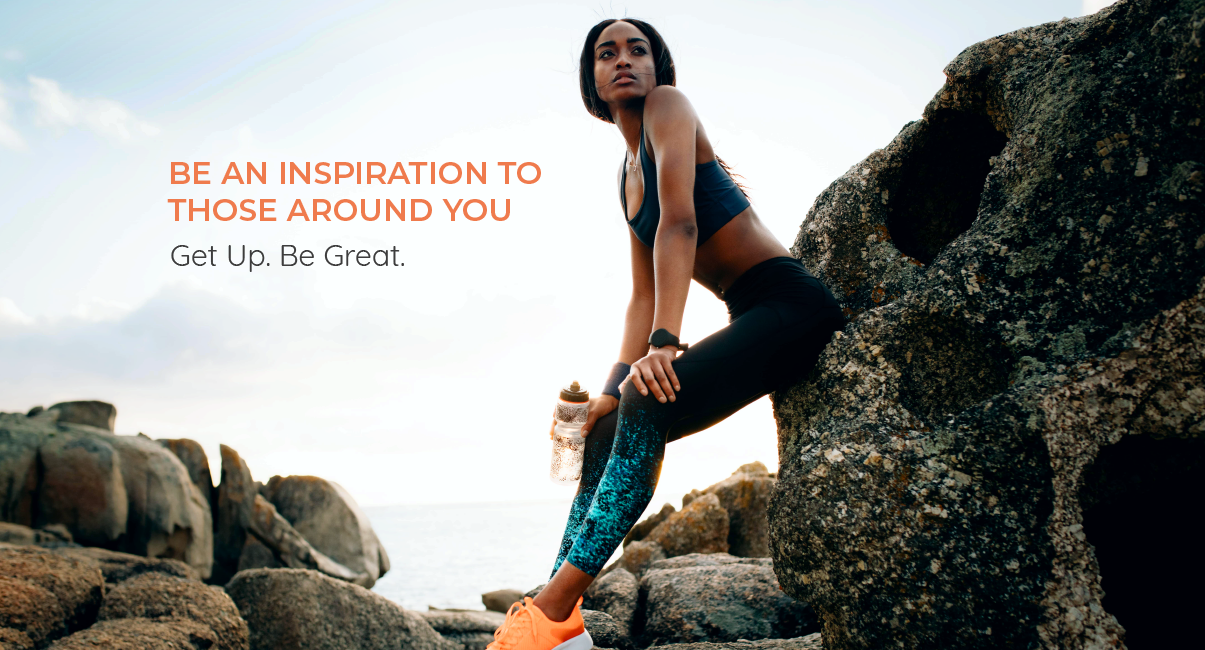
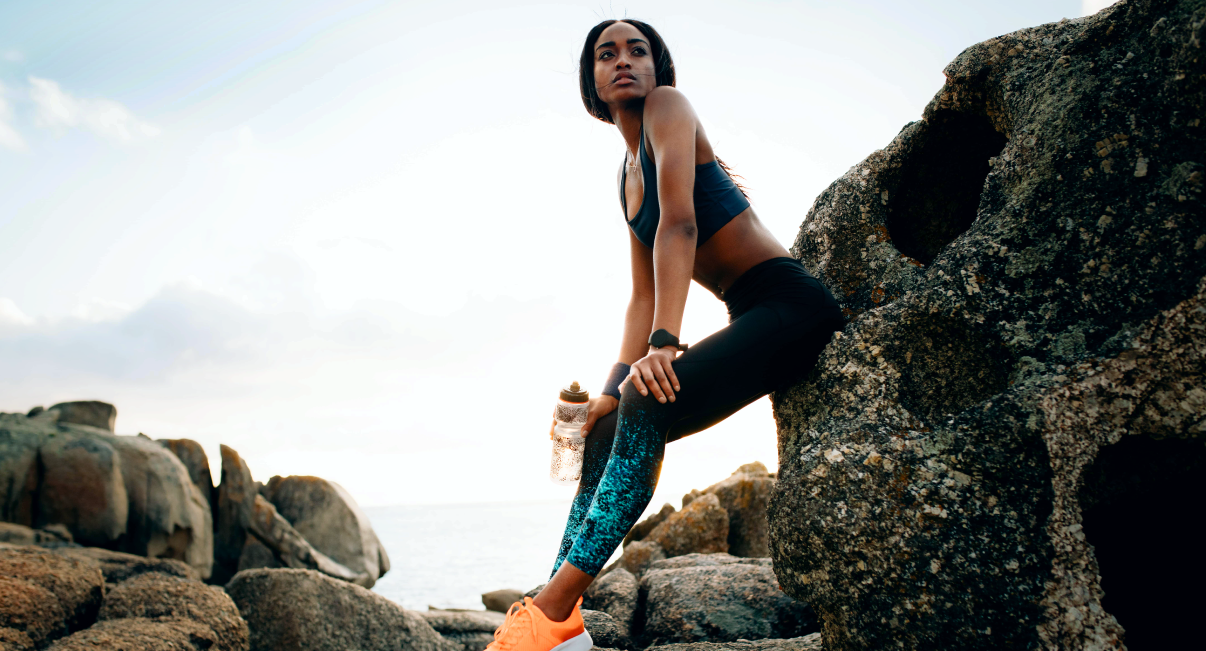
10/31 2:43

diff --git a/unit_6/css/style.css b/unit_6/css/style.css
@@ -1,4 +1,4 @@
-@import url('https://fonts.googleapis.com/css?family=Montserrat:400,500,500i,600,700,800,900|Quicksand:300,400,500,700');
+@import url('https://fonts.googleapis.com/css?family=Montserrat:400,500,500i,600,700,800,900|Quicksand:300,400,500,700|Permanent+Marker');
 
 
 * { margin:0; padding:0; box-sizing:border-box; }
@@ -36,10 +36,51 @@ nav a {
 
 /* -------------End Navigation-------------- */
 
+#intro {
+    background: url(../images/jogger-2.png);
+    background-size: cover;
+    background-repeat: no-repeat;
+    height: 90vh;
+}
+
+h1 {
+  font-family: Montserrat, Helvetica, arial, sans-serif;
+  font-weight: 600;
+  font-size: 2em;
+  color: #ef7b4d;
+}
+
+.tag {
+  font-family: Quicksand, sans-serif;
+  font-weight: 300;
+  font-size: 2em;
+  color: #3d3d3d;
+  margin-bottom: 5em;
+}
+
+
+.cta {
+	display:inline-block;
+     padding: 15px;
+     background-color: #5cc2a1;
+     color: white;
+     text-decoration: none;
+     margin-top: .5em;
+
+}
+
+.herotext {
+    margin: 12% 0% 0% 15%;
+}
+
+
+
 h2 {
-    font-family: Montserrat, Helvetica, arial, sans-serif;
+    font-family: Permanent Marker, cursive, Montserrat, Helvetica, arial, sans-serif;
     font-weight: 400;
     margin-bottom: .8em;
+    font-size: 2em;
+    color: #424242;
 }
 
 section {
@@ -97,27 +138,15 @@ input[type=submit]:hover {
 
 /* -------------End Footer-------------- */
 
-#intro {
-    background: url(../images/jogger-2.png);
-    background-size: cover;
-    background-repeat: no-repeat;
-    height: 90vh;
-}
-.cta {
-	display:inline-block;
-     padding: 15px;
-     background-color: #5cc2a1;
-     color: white;
-     text-decoration:none;
 
-}
 
 /* -----------------Sandwich--------------- */
 #sandwich {
-    
+    width: 80%;
     margin-left: auto;
     margin-right: auto;
     padding: 4em;
+    /*background-color: #f7f7f7;*/
 
 }
 
@@ -143,13 +172,14 @@ input[type=submit]:hover {
   padding-right: 2%;
   display: inline-block;
 
+
 }
 
 #icon {
   float:left;
   margin-right: 5%;
   margin-top: -1em;
-}
+  }
 
 
 /* ------End Features----- */
@@ -158,16 +188,58 @@ input[type=submit]:hover {
  /* background: #222;
   color: #fff;*/
   overflow: auto;
+  
 
 }
 
 
 .box {
   
-  float:left;
-  width: 49%;
+  float: right;
+  width: 28%;
   padding-left: 3em;
   
+}
+
+.box1 {
+  position: relative;
+  float:left;
+  width: 70%;
+  
+  
+}
+
+.water {
+  outline: 1px solid #bababa;
+  width: 90%;
+  margin-left: 4em;
+  display: block;
+  height: auto;
+
+}
+
+.overlay {
+  position: absolute;
+  top: 0;
+  bottom: 0;
+  left: 0;
+  right: 0;
+  
+  width: 90%;
+  opacity: 0;
+  transition: .5s ease;
+  background-color: #5cc2a1;
+  margin-left: 4em;
+}
+
+.box1:hover .overlay {
+  opacity: .7;
+}
+
+
+ul { line-height: 2.42em;
+     
+     margin-top: 3em;
 }
 
 .clearfix::after{

diff --git a/unit_6/index.html b/unit_6/index.html
@@ -16,9 +16,11 @@
 		</nav>
 	</header>
 	<section id="intro">
-		<!--<h1>BE AN INSPIRATION TO THOSE AROUND YOU</h1>
-		<p> Get Up. Be Great. </p> -->
+		<div class="herotext">
+		<h1>BE AN INSPIRATION TO<br>THOSE AROUND YOU</h1>
+		<p> <span class="tag">Get Up. Be Great. </span> </p> 
 		<a href="#" class="cta">Learn More</a>
+	    </div>
 	</section>
 
 
@@ -39,9 +41,9 @@
 </section>
 
 
-
-
 <h2> Benefits </h2>
+
+
 
 
 <section class="benefits">
@@ -50,24 +52,29 @@
 
 	<div class="box">
 		<ul>
-				<li>energy boost</li>
-			<li>vitamins and minerals</li>
-			<li>antioxidants</li>
-			<li>flushes out toxins</li>
-			<li>aids with weight loss</li>
-			<li>healtheir looking skin</li>
+				<li>Energy boost</li>
+			<li>Vitamins and minerals</li>
+			<li>Antioxidants</li>
+			<li>Flushes out toxins</li>
+			<li>Aids with weight loss</li>
+			<li>Healtheir looking skin</li>
+			<li>Flushes out toxins</li>
+			<li>Aids with weight loss</li>
+			<li>Healtheir looking skin</li>
 </ul>
 
 </div>
 
-<div class="box">
-		<img src="images/detox.jpg" style="width:30%;">
+<div class="box1">
+		<img class="water" src="images/water-overlay.png">
+		<div class="overlay">
 	</div>
+</div>
 </div>
 </div>
 </section>
 
-
+<!--------------------------- Footer---------------------------- -->
 <footer >
 
 <meta name="viewport" content="width=device-width, initial-scale=1">
